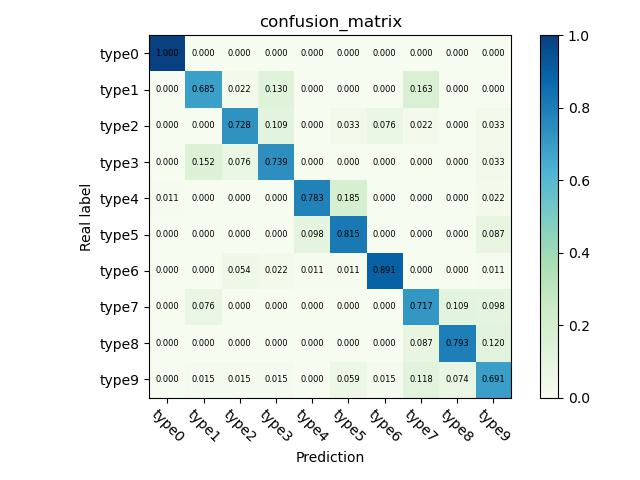
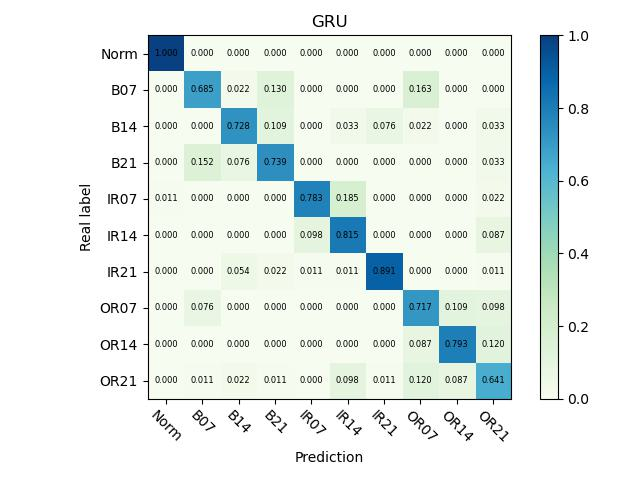
GRU_FD

diff --git a/visualization.py b/visualization.py
@@ -59,7 +59,7 @@ def confusion_matrix(txt_path, jpg_path):
     # 加载混淆矩阵
     con_matrix = np.loadtxt(txt_path, delimiter=',')
     # 标签
-    classes = ['type0', 'type1', 'type2', 'type3', 'type4', 'type5', 'type6', 'type7', 'type8', 'type9']
+    classes = ['Norm', 'B07', 'B14', 'B21', 'IR07', 'IR14', 'IR21', 'OR07', 'OR14', 'OR21']
     # 标签的个数
     classNamber = 10  # 分类数量
     # 按行进行归一化到(0,1)之间
@@ -68,7 +68,7 @@ def confusion_matrix(txt_path, jpg_path):
     con_matrix = con_matrix.numpy()
 
     plt.imshow(con_matrix, interpolation='nearest', cmap=plt.cm.GnBu)  # 按照像素显示出矩阵,可设置像素背景颜色
-    plt.title('confusion_matrix')
+    plt.title('GRU')
     plt.colorbar()
     tick_marks = np.arange(len(classes))
     plt.xticks(tick_marks, classes, rotation=-45)

diff --git a/estimate.py b/estimate.py
@@ -1,0 +1,20 @@
+import os
+import torch
+from model import GRU
+from torchsummary import summary
+
+
+if __name__ == '__main__':
+    os.environ['CUDA_VISIBLE_DEVICES'] = "0"
+    N = 4 #编码器个数
+    input_dim = 1024
+    seq_len = 16 #句子长度
+    hidden_size = 128
+
+    net = GRU(input_dim=input_dim, input_size=seq_len, hidden_size=hidden_size, hidden_num_layers=N)
+    device = torch.device("cuda:0")
+    net = net.to(device)
+
+    input_data = torch.randn(1, 1024)
+    input_data = input_data.squeeze() # 适应summary()的输入维度,因为summary会给输入拼接一个维度
+    summary(net, input_data.size())
